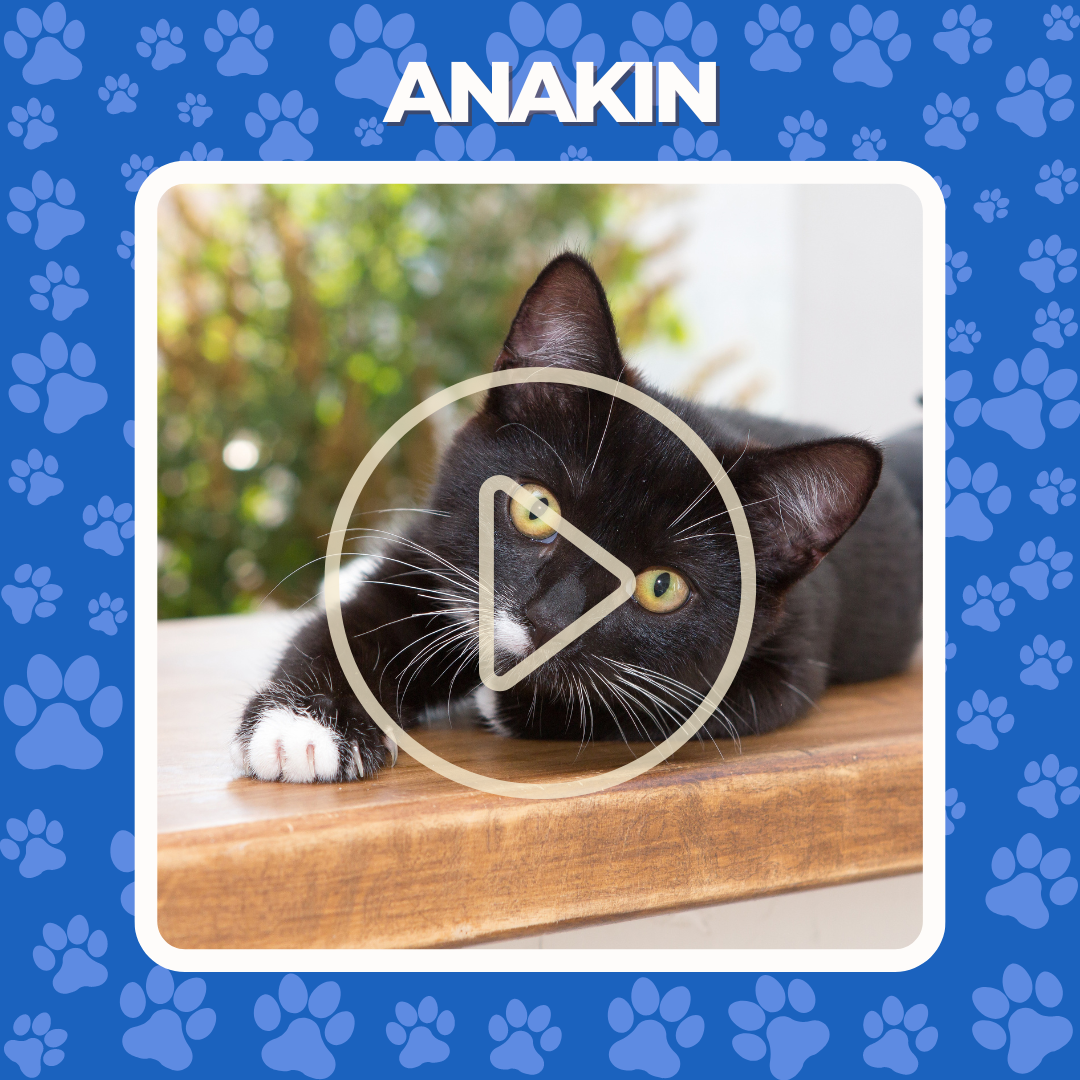
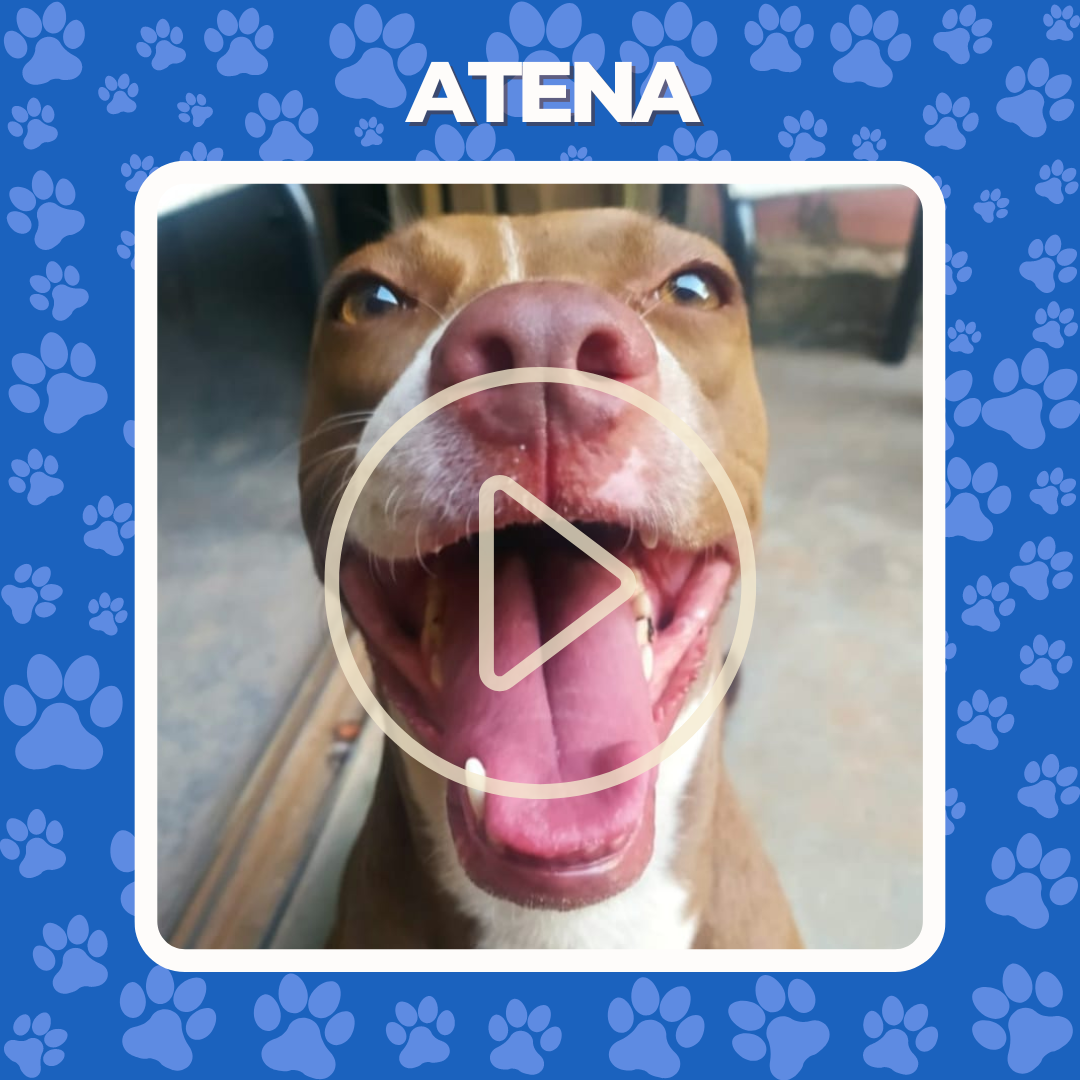
Troca img e adiciona algumas referencias de pagina

diff --git a/PaginaInicial/index.html b/PaginaInicial/index.html
@@ -81,11 +81,14 @@
                 Você me viu por aí? Avise meu dono!!
             </h1>
             <div class="carrossel-imagens">
-                <img src="./img/petperdido2.png" alt="video relato pet encontrado">
-                <img src="./img/petperdido3.png" alt="video relato pet encontrado">
-                <img src="./img/petperdido4.png" alt="video relato pet encontrado">
-                <img src="./img/petperdido5.png" alt="video relato pet encontrado">
+                <img src="./img/petperdido1.png" alt="banner pet perdido">
+                <img src="./img/petperdido2.png" alt="banner pet perdido">
+                <img src="./img/petperdido3.png" alt="banner pet perdido">
+                <img src="./img/petperdido4.png" alt="banner pet perdido">
+                <img src="./img/petperdido5.png" alt="banner pet perdido">
+                <img src="./img/petperdido6.png" alt="banner pet perdido">
             </div>
+            <a href="/PaginaPesquisa/index.html"><button class="botao">Veja mais pets perdidos</button></a>
         </div>
         <div class="quem-somos">
             <h1>

diff --git a/AcheMeuPet/index.html b/AcheMeuPet/index.html
@@ -14,7 +14,7 @@
     <nav class="navegador">
         <div class="barra-navegacao">
             <img src="./Imagens/icon.png">
-            <a id="achadosEPerdidos" href="#">Achados e Perdidos</a>
+            <a id="achadosEPerdidos" href="/PaginaPesquisa/index.html">Achados e Perdidos</a>
             <a id="comoFunciona" href="#">Como Funciona</a>
             <a id="suporte" href="#">Suporte</a>
         </div>
@@ -68,8 +68,8 @@
                     autocomplete="off">
             </form>
 
-            <button class="botoesPrincipais Enviar" type="button">Enviar Busca</button>
-            <button class="botoesPrincipais Cadastro" type="button">Já possuo cadastro</button>
+            <a href="/PaginaPesquisa/index.html"><button class="botoesPrincipais Enviar" type="button">Enviar Busca</button></a>
+            <a href="/LoginFront/index.html"><button class="botoesPrincipais Cadastro" type="button">Já possuo cadastro</button></a>
         </section>
     </main>
     <section class="Dicas">

diff --git a/PaginaInicial/css/style.css b/PaginaInicial/css/style.css
@@ -142,7 +142,7 @@ body {
 }
 
 .pets-perdidos .carrossel-imagens img {
-    width: 400px;
+    width: 350px;
     margin-bottom: 30px;
 }
 
@@ -197,7 +197,7 @@ body {
 }
 
 .pets-encontrados .carrossel-imagens img {
-    width: 300px;
+    width: 250px;
     margin: 10px;
 }
 

diff --git a/AcheMeuPet/style.css b/AcheMeuPet/style.css
@@ -340,4 +340,6 @@ label:hover {
     .barra-pesquisa-nav{
         margin-top: 100px;
     }
+
+    
 }
